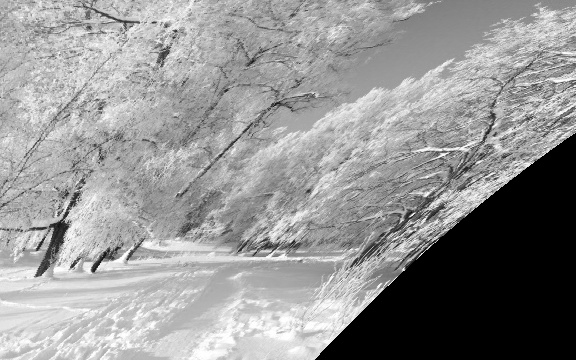
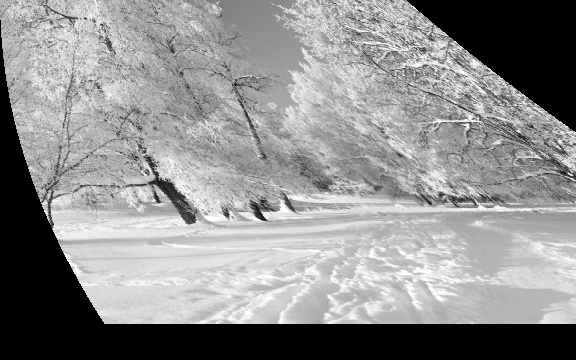
fixed polynomical mapping and done one-way distortion

diff --git a/2lab/src/distortion_custom.py b/2lab/src/distortion_custom.py
@@ -1,0 +1,62 @@
+import cv2 as cv
+import numpy as np
+
+img_path = "C:/denFiles/git/technical-vision/2lab/images/"
+img = cv.imread(img_path + "kitchen.jpg", cv.IMREAD_GRAYSCALE)
+n_rows, n_cols = img.shape[:2]
+
+# Form x,y grid
+x, y = np.meshgrid(np.arange(n_cols), np.arange(n_rows))
+
+# Shift and normalize grid
+x_mid = n_cols / 2
+y_mid = n_rows / 2
+x = (x - x_mid) / x_mid
+y = (y - y_mid) / y_mid
+
+# Set linear expansion factor
+b_0 = 1.005
+
+# Convert to polar and do transformation
+r, theta = cv.cartToPolar(x, y)
+F3 = 0.5
+r = b_0 * r + F3 * r ** 3
+
+# Undo conversion, normalization and shift
+u, v = cv.polarToCart(r, theta)
+u = u * x_mid + x_mid
+v = v * y_mid + y_mid
+
+# Calculate mask for valid indices
+mask = np.logical_and(np.logical_and(u >= 0, u < n_cols), np.logical_and(v >= 0, v < n_rows))
+
+# Undo normalization and shift
+x = x * x_mid + x_mid
+y = y * y_mid + y_mid
+
+# Apply reindexing
+dist_img = np.zeros_like(img)
+dist_img[v[mask].astype(int), u[mask].astype(int)] = img[y[mask].astype(int), x[mask].astype(int)]
+
+# Find undefined pixels of new image
+undef = np.zeros_like(img)
+undef[v[mask].astype(int), u[mask].astype(int)] = 255  # Undefined pixels corresponds to the black
+
+# Apply interpolation
+undef_arr = np.argwhere(undef == 0)  # An array containing undefined pixels
+for undef_p in undef_arr:
+    intensities = []
+    # Construct 3x3 squared punctured area
+    area = np.array([[undef_p[0] - 1, undef_p[1] - 1], [undef_p[0] - 1, undef_p[1]], [undef_p[0] - 1, undef_p[1] + 1],
+                     [undef_p[0], undef_p[1] - 1], [undef_p[0], undef_p[1] + 1],
+                     [undef_p[0] + 1, undef_p[1] - 1], [undef_p[0] + 1, undef_p[1]], [undef_p[0] + 1, undef_p[1] + 1]])
+    # Find the area average intensities of the defined pixels
+    for p in area:
+        if (p[0] >= 0) and (p[0] < n_rows) and (p[1] >= 0) and (p[1] < n_cols) and (undef[p[0], p[1]] == 255):
+            intensities.append(dist_img[p[0], p[1]])
+    dist_img[undef_p[0], undef_p[1]] = int(np.mean(intensities))  # Assign the found intensity
+
+cv.imwrite(img_path + "kitchen_distortion_custom.jpg", dist_img)
+cv.imshow("Distortion custom", dist_img)
+cv.waitKey(0)
+cv.destroyAllWindows()

diff --git a/2lab/src/distortion_remap.py b/2lab/src/distortion_remap.py
@@ -1,0 +1,36 @@
+import cv2 as cv
+import numpy as np
+
+img_path = "C:/denFiles/git/technical-vision/2lab/images/"
+img = cv.imread(img_path + "kitchen.jpg", cv.IMREAD_GRAYSCALE)
+n_rows, n_cols = img.shape[:2]
+
+# Form x,y grid
+x, y = np.meshgrid(np.arange(n_cols), np.arange(n_rows))
+
+# Shift and normalize grid
+x_mid = n_cols / 2
+y_mid = n_rows / 2
+x = (x - x_mid) / x_mid
+y = (y - y_mid) / y_mid
+
+# Set linear expansion factor
+b_0 = 1.005
+
+# Convert to polar and do transformation
+r, theta = cv.cartToPolar(x, y)
+F3 = 0.3
+r_new = (((2/3)**(1/3))*b_0)/((np.sqrt(3*(4*b_0**3*F3**3+27*F3**4*r**2))-9*F3**2*r)**(1/3)) - ((np.sqrt(3*(4*b_0**3*F3**3+27*F3**4*r**2))-9*F3**2*r)**(1/3))/(2**(1/3)*3**(2/3)*F3)
+
+# Undo conversion, normalization and shift
+u, v = cv.polarToCart(r_new, theta)
+u = u * x_mid + x_mid
+v = v * y_mid + y_mid
+
+# Do remapping
+dist_img = cv.remap(img, u.astype(np.float32), v.astype(np.float32), cv.INTER_LINEAR)
+
+cv.imwrite(img_path + "kitchen_distortion_remap.jpg", dist_img)
+cv.imshow("Distortion remap", dist_img)
+cv.waitKey(0)
+cv.destroyAllWindows()

diff --git a/2lab/src/polynomial_transform.py b/2lab/src/polynomial_transform.py
@@ -54,13 +54,15 @@ for undef_p in undef_inner_arr:
             intensities.append(polyn_img[p[0], p[1]])
     polyn_img[undef_p[0], undef_p[1]] = int(np.mean(intensities))  # Assign the found intensity
 
-cv.imwrite(img_path + "polyn_winter_qqq.jpg", polyn_img)
-cv.imwrite(img_path + "all_undefined.jpg", undef_all)
-cv.imwrite(img_path + "borders.jpg", borders)
-cv.imwrite(img_path + "inner)undefined.jpg", undef_inner)
+# cv.imwrite(img_path + "all_undefined.jpg", undef_all)
+# cv.imwrite(img_path + "borders.jpg", borders)
+# cv.imwrite(img_path + "inner_undefined.jpg", undef_inner)
+
+# cv.imshow("All undefined pixels", undef_all)
+# cv.imshow("Borders", borders)
+# cv.imshow("Inner undefined pixels", undef_inner)
+
+cv.imwrite(img_path + "polyn_winter_manual.jpg", polyn_img)
 cv.imshow("Polynomial transform", polyn_img)
-cv.imshow("All undefined pixels", undef_all)
-cv.imshow("Borders", borders)
-cv.imshow("Inner undefined pixels", undef_inner)
 cv.waitKey(0)
 cv.destroyAllWindows()

diff --git a/2lab/src/test.py b/2lab/src/test.py
@@ -1,0 +1,27 @@
+import cv2 as cv
+import numpy as np
+
+img_path = "C:/denFiles/git/technical-vision/2lab/images/"
+img = cv.imread(img_path + "rowan.jpg", cv.IMREAD_GRAYSCALE)
+n_rows, n_cols = img.shape[:2]
+
+# Form x,y grid
+x, y = np.meshgrid(np.arange(n_cols), np.arange(n_rows))
+
+x_new_custom = x ** 2
+y_new_custom = y
+
+x_new_remap = x ** 0.5
+y_new_remap = y
+
+mask = np.logical_and(np.logical_and(x_new_custom >= 0, x_new_custom < n_cols), np.logical_and(y_new_custom >= 0, y_new_custom < n_rows))
+
+new_img_custom = np.zeros_like(img)
+new_img_custom[y_new_custom[mask].astype(int), x_new_custom[mask].astype(int)] = img[y[mask], x[mask]]
+
+new_img_remap = cv.remap(img, x_new_remap.astype(np.float32), y_new_remap.astype(np.float32), interpolation=None)
+
+cv.imshow("manual", new_img_custom)
+cv.imshow("remap", new_img_remap)
+cv.waitKey(0)
+cv.destroyAllWindows()

diff --git a/2lab/src/polynomial_builtin.py b/2lab/src/polynomial_builtin.py
@@ -12,10 +12,8 @@ T = np.float32([[0, 0], [0.7, 0], [0, 0.9], [0.00001, 0], [0.002, 0], [0.001, 0]
 x, y = np.meshgrid(np.arange(n_cols), np.arange(n_rows))
 
 # Calculate all new X and Y coordinates
-x_new = np.round(T[0, 0] + x * T[1, 0] + y * T[2, 0] + x * x * T[3, 0] + x * y * T[4, 0] + y * y * T[5, 0]).astype(
-    np.float32)
-y_new = np.round(T[0, 1] + x * T[1, 1] + y * T[2, 1] + x * x * T[3, 1] + x * y * T[4, 1] + y * y * T[5, 1]).astype(
-    np.float32)
+x_new = np.round(np.sqrt((x / T[3,0]) + ((T[1,0] + T[4,0] * y) / (2 * T[3,0])) ** 2 - ((T[5,0] * y ** 2)/T[3,0])) - ((T[1,0] + T[4,0] * y) / (2 * T[3,0]))).astype(np.float32)
+y_new = np.round(y / T[2,1]).astype(np.float32)
 
 # Apply remapping
 polyn_img = cv.remap(img, x_new, y_new, cv.INTER_LINEAR)
